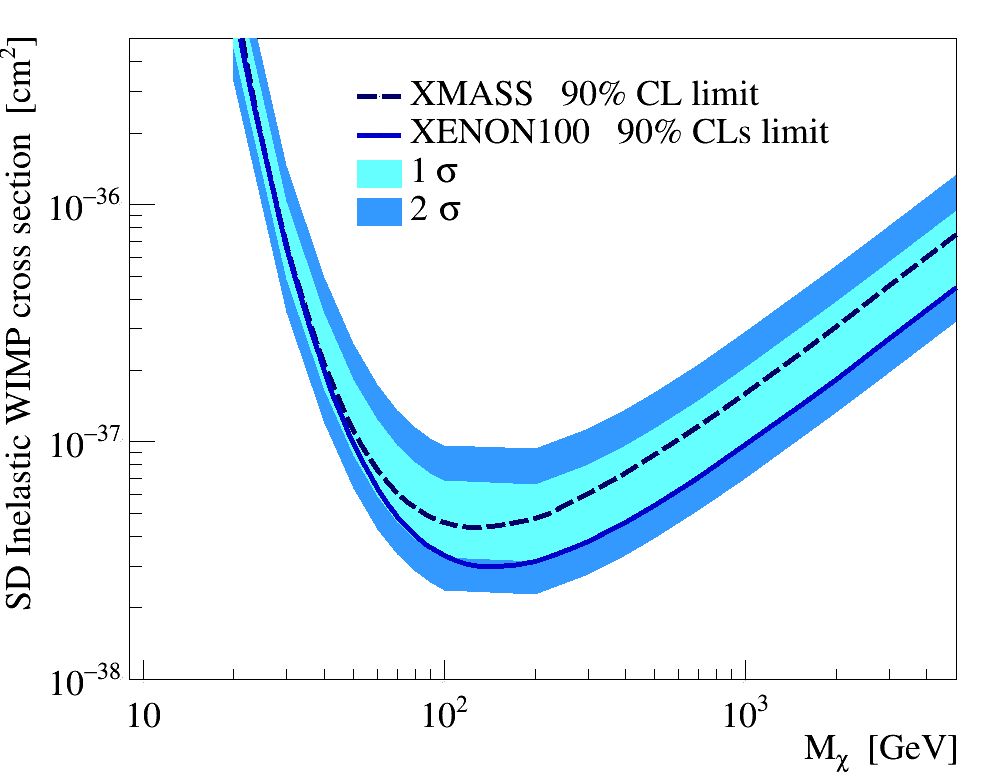
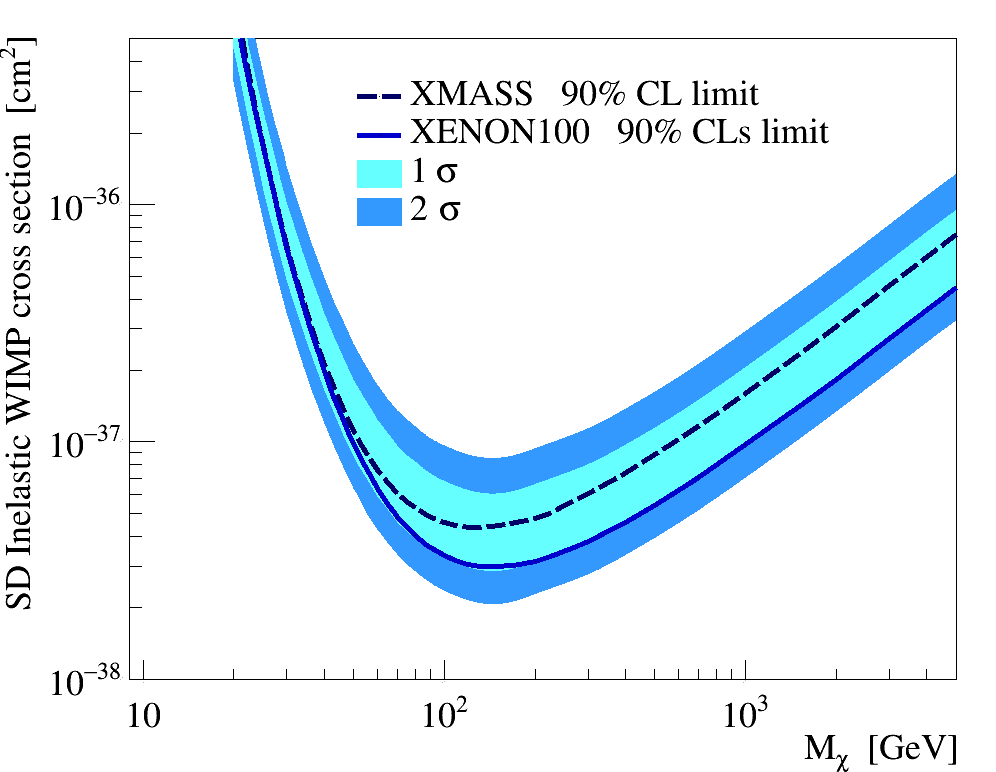
edited response and fixed figure in main text

diff --git a/Inelastic/response_to_referee.tex b/Inelastic/response_to_referee.tex
@@ -18,7 +18,7 @@
 %\section{Introduction}
 %Here is the text of your introduction.
 
-We thank the referee for his/her's valuable comments, we really think these add a value to the paper. 
+We thank the referee for the valuable comments, we sincerily think these added  value to the paper. 
 You can find below the answer to the detailed questions, we implemented most of the suggestions in the new version of the paper.
 Below we report each  comment/question in blue and its related answer in black, we specifically state what modifications
 were applied to the paper in each single answer.
@@ -50,11 +50,12 @@ dealing with inelastic scattering that produces a gamma too here.}
 Classical searches for spin dependent elastic scattering have higher sensitivity with respect to this search for spin 
 dependent inelastic scattering. However, in case dark matter would be found, this type of search ensures you that the type 
 of interaction is spin-dependent, while for classical elastic scattering is much more difficult to tell.
-In the text we say that this search is complementary to the standard SD. {\color{red} We modified the text to "It was found that this channel,  although not competitive in terms of sensitivity,  
-is complementary to the spin-dependent, elastic scattering one".} 
-The "10 KeV" of deposited energy referes to both, if one looks at integrated rated above 10KeV NR for elastic scattering 
-finds that is smaller than the integrated rate of  NR+ER for inelastic scattering.
-{\color{red} We think that deposited energy is the correct wording here, since indeed it differs for the two cases.}
+In the text we say that this search is complementary to the standard SD.  We modified the text to "It was found that this channel,  
+although not competitive in terms of sensitivity,  
+is complementary to the spin-dependent, elastic scattering one".
+The "10 KeV" of deposited energy refers to both, if one looks at integrated rated above 10KeV NR for elastic scattering 
+finds that is smaller than the integrated rate of  NR+ER for inelastic scattering, see Fig. 6 in (https://arxiv.org/abs/1309.0825).
+We think that deposited energy is the correct wording here, since indeed it differs for the two cases.
 
 \begin{itemize}
 	\item {\color{blue} 
@@ -63,11 +64,13 @@ used for this paper? Wouldn’t this make your constraints even
 stronger? Please explain reason}
 \end{itemize}
 
-Yes, the limit would be stronger. However the scope of this paper is 
-not to discover dark matter, for which one would use instead SD elastic
-scattering channel, but rather explore a different analysis channel.
+Yes, the limit could have been stronger, a naive expectation for sensitivity improvement with respect to the current is about 30\%.
+However the scope of this paper is to explore a different analysis channel.
 Doing a combination on three different science runs (each of them having 
-different background conditions and acceptances) is very demandig. 
+different background conditions and acceptances) is very demanding,
+this would have extended significantly the time scale for this analysis,
+which was not very well motivated at the time given the fact that we knew 
+Xenon1T data taking was starting soon.
 
 
 \begin{itemize}
@@ -78,7 +81,7 @@ means of the NR and ER in cS1 and cS2 space?}
 \end{itemize}
 
 The signal distribution changes according to wimp mass due to the NR component,
-we choose the ROI so that it will embrace all the wimp hipothesys at least at two 
+we choose the ROI so that it will embrace all the wimp hypothesis at least at two 
 sigma. Now added to the text.
 
 
@@ -96,7 +99,7 @@ and S2 and make squares for example?)}
 
 \begin{figure}[t!]
   \centerline{\includegraphics[width=0.7\linewidth]{inelastic_binning_check.png}}
-  \caption{ Sensitivity computed dividing the ROI in different numbers of equally sized bins. NOTE: this sensitivity curves where run in a test long ago before the final version, imost of nuissance parameter have different implementation or missing, so they are NOT directly comparable with the final one, altough similar.}
+  \caption{ Sensitivity computed dividing the ROI in different numbers of equally sized bins. NOTE: this sensitivity curves where run in a test long ago before the final version, most of nuisance parameter have different implementation or missing, so they are NOT directly comparable with the final one, although similar.}
   \label{fig:binning}
 \end{figure}
 
@@ -106,18 +109,22 @@ choice is optimal for all masses.
 
 It was shown, see Figure~\ref{fig:binning}, a non appreciable
 difference in sensitivity dividing the region in more than 10 equal sized bins. 
-So as soon as one divide the ROI in any number larger than 10 of equally sized bins would get the same result. So why not divide in 40 equally sized bins at this point?  
-There is a limiting factor: we are using asymptotic formulae for distribution of the
-test statistic, these formulaes are valid in the assumption of Wilks theorem, so that the number
-of events in each bin should be "large". In order to not have bins with drammatically low background, which
-happens in case of equally sized bins, we needed to merge bins and we need to do it in a way to not disrupt sensitivity.
-So we started with a number of equally sized bins (roughly 20 if I remember corretly) and we grouped them achieving similar 
-background density,  in this way the discrimination power is conserved, meaning that the discrimination power will be equal or better than 
-the one using the same number of final bins (in this case 9) but produced in equal sizes.
-Within this prescription, which is very general, the chosed arrangement of bins and shapes is almost arbitrary and
-could have been done in many different ways, however it doesn't matter because following 
-this procedure whatever peculiar binning choice will not  impact  our 
-sensitivity, so we choosed the solution that was technically easier.
+So as soon as one divide the ROI in any number larger than 10 of equally sized bins would get the same result. 
+%So why not divide in 40 equally sized bins at this point?  
+%There is a limiting factor: we are using asymptotic formulae for distribution of the
+%test statistic, these formulae are valid in the assumption of Wilks theorem, so that the number
+%of events in each bin should be "large". In order to not have bins with dramatically low background, which
+%happens in case of equally sized bins, we needed to merge bins and we need to do it in a way to not disrupt sensitivity.
+We choosed a rebinning strategy that depends on the background shape and is the same for all masses. The bin shapes are designed to have
+equal background density: this ensures high discrimination power while keeping a low number of bins and ensure that all bins are 
+well populated (assumption necessary for the used test statistic asymptotic formulae). 
+%So we started with a number of equally sized bins (roughly 20 if I remember correctly) and we grouped them achieving similar 
+%background density,  in this way the discrimination power is conserved, meaning that the discrimination power will be equal or better than 
+%the one using the same number of final bins (in this case 9) but produced in equal sizes.
+%Within this prescription, which is very general, the chosen arrangement of bins and shapes is almost arbitrary and
+%could have been done in many different ways, however it doesn't matter because following 
+%this procedure whatever peculiar binning choice will not  impact  our 
+%sensitivity, so we choose the solution that was technically easier.
 We added to the text that "it has been crosschecked that changing bin choice does not impact sensitivity".
 
 
@@ -131,11 +138,11 @@ or all peaks added together in a given event, counting them all as
 “the signal”?}
 \end{itemize}
 
-{\color{red} Our detector position resolution is of the order of few mm, multiple scatters S2 that are 
+Our detector position resolution is of the order of few mm, multiple scatters S2 that are 
 closer than that will be merged. These in any case are not a problem, since this cut is meant 
 to reduce neutron background, in the standard elastic analysis this turns into a small
-uncertainty in neutron bkg model, but for the energies deposits of this analysis neutron bkg 
-is irrelevant, so we could have even dropped that cut. When we say S2 we mean the primary peak. } 
+uncertainty in neutron background model, but for the energies deposits of this analysis neutron background 
+is irrelevant, so we could have even dropped that cut. When we say S2 we mean the primary peak. 
 
 \begin{itemize}
 	\item {\color{blue} 
@@ -145,7 +152,7 @@ the former as the text implies. Please correct, to better match up
 with explanation below in Section C.}
 \end{itemize}
 
-{\color{red} Changed to "a full simulation (NR and ER response) of the 39,6~KeV xenon line..." } 
+Changed to "a full simulation (NR and ER response) of the 39,6~KeV xenon line..." 
 
 \begin{itemize}
 	\item {\color{blue} 
@@ -154,8 +161,8 @@ folded in here: currently this equation appears to yield photons not
 PE (Ly?) Am I reading it incorrectly?}
 \end{itemize}
 
-Ly is the measured light yield in PE/$KeV_{ee}$, so it encapsulate all the position dependence
-and collection efficiencies, as maybe described in more detail in 
+Ly is the measured light yield in PE/$KeV_{ee}$, so it encapsulates all the position dependence
+and collection efficiencies, as described in more detail in 
 (https://arxiv.org/abs/1207.3458). This notation is common to XENON papers, but it might not be 
 general.
 
@@ -170,9 +177,7 @@ case a range should be provided, from the min to max masses you
 considered.}
 \end{itemize}
 
-What we meant is that is approximately constant with the wimp mass.
-Values being compatible within uncertainties with 0.80 +- 0.05.
-it has been changed to: "The combined acceptance  of all selection criteria in the region 
+Changed to: "The combined acceptance  of all selection criteria in the region 
 of interest is roughly constant for all masses and averages to $(0.80\pm0.05)$."
 
 
@@ -208,7 +213,7 @@ XENON100 and simulating in Geant4, yes?)}
 
 
 It has been proven by several XENON analysis that indeed 60Co and 232Th are very good
-and representative candidate for ER background, since they reproduce quite well the compton
+and representative candidate for ER background, since they reproduce quite well the Compton
 scattering band. They have been used multiple times in several xenon analysis, see for 
 example (https://arxiv.org/abs/1207.3458, and https://arxiv.org/abs/1609.06154).
 A full simulation with NEST will not give smaller uncertainties due to intrinsic
@@ -217,7 +222,7 @@ Furthermore, there is no such a proven MC-data matching for XENON100 for these e
 meaning we don't have a Geant4 of all radioactive material 
 background that produces a spectra that we can fully trust. So we opted for a simple 
 but effective approach. 
-Regarding the "dicotomy of threatment": we could't use AmBe data as signal model due to 
+Regarding the "dichotomy of treatment": we couldn't use AmBe data as signal model due to 
 the non negligible difference between WIMP and AmBe introduced by the NR.
 
 
@@ -228,7 +233,10 @@ separately as is more standard practice, either splitting them off or
 using color coded error bars, as you do later}
 \end{itemize}
 
-Done.
+Since we use a large MC sample the statistical uncertainty is negligible, the bin with largest uncertainty 
+has relative error of $<$1\%, this makes the stat uncertainty be smaller than the tickness of the line.
+So we removed the "statistical" uncertainty label as in here we want to underline the systematic uncertainties.
+
 
 \begin{itemize}
 	\item {\color{blue} Pseudo-samples: I am confused as to why these are necessary, doesn’t
@@ -264,15 +272,17 @@ discussion about the top half of the figure.}
 
 This comment touches many topics and we try to reply in order in the following:
 \begin{enumerate}
-	\item Regarding Pseudo-samples, these are used to produce shape uncertainty, so histogram variation, of +/-1 sigma step. What typically one does with these "pseudo-samples" histograms  is to use them as seeds for interpolation techniques controlled by a nuissance parameter, as the referee is suggesting. Now we have several such shape uncertainties and we felt that this approach was overcomplicated. We opted for a conservative but simple approximation: we sum up in quadrature all the "positive" and "negative" variation for each bin separately, we then assign the maximal of the two as a symmetric Gaussian distributed uncertainty on the single bin.  In this way we avoid the complication of histogram shape interpolation of several nuissance parameter. Being the uncertainty on each bin independent from the other this allows for much more freedom and has overcoverage of the shape variations.
+	\item Regarding Pseudo-samples, these are used to produce shape uncertainty, so histogram variation, of +/-1 sigma step. What typically one does with these "pseudo-samples" histograms  is to use them as seeds for interpolation techniques controlled by a nuisance parameter, as the referee is suggesting. Now we have several such shape uncertainties and we felt that this approach was over complicated. We opted for a conservative but simple approximation: we sum up in quadrature all the "positive" and "negative" variation for each bin separately, we then assign the maximal of the two as a symmetric Gaussian distributed uncertainty on the single bin.  In this way we avoid the complication of histogram shape interpolation of several nuisance parameter. Being the uncertainty on each bin independent from the other this allows for much more freedom and has over coverage of the shape variations.
 	
 	\item The question on the regions is already answered above. 
 	
-	\item The analysis was not technically blind, since this data region was explored in several 
-other studies. The procedure we used was as if it was blind, since we didn't tune cuts on data.
+	\item Since this data region was explored in several other studies, this analysis was not blind.
+		The procedure we used was as if it was blind, since we didn't tune cuts on data.
 
-	\item All the systematic uncertainties come from auxiliary measurements, so real measurements either from our experiment or in the literature, some of them may not be expected to be gaussian distributed,
-for example Leff, but in these cases the parametrizzation chosen is the one commonly accepted.
+	\item All the systematic uncertainties come from auxiliary measurements, either from our experiment or from the literature, so 
+		to the best of our knowledge their prior is indeed a Gaussian. 
+		However, some of them may not be expected to be Gaussianly distributed, for example Leff, but in these cases the chosen parameterization
+		is the one commonly accepted.
 
 	\item The sentences Figure 4 have been swapped.
 \end{enumerate}
@@ -288,12 +298,8 @@ CL(s), or at least a brief reason why it was used instead of CL. Not
 all readers may be familiar with Read’s work.}
 \end{itemize}
 
-The CLs was common practice of XENON100, and common practice of many high energy experimets. 
-This is a technique that target the same problem as power constrain (but in a less silly way),
-it protects the limit by data underfluctiation so that is difficult to exclude
-cross section to which the experiment is not sensitive to, paying the price of a bit worst sensitivity.
-The sentence {\color{red}"The CL$_s$ technique helps protecting against exclusion of a cross section
-smaller than experimental sensitivity" has been added}. Not really sure I wan to add that. 
+The sentence "The CL$_s$ technique helps protecting against exclusion 
+of a cross section smaller than experimental sensitivity" has been added.  
 
 
 
@@ -318,10 +324,11 @@ here, as being in nearly virgin territory, and you can say that.}
 \end{itemize}
 
 No the limit is not constrained, CLs is used instead of a power constrained limit.
-It just a coincidence that it stops at -1 sigma.
-Yes the bands are not smoothened while the curve is, this is due to a silly ROOT 
-problem which is {\color{red} fixed now} in another way.
-There is no other result that we know of that explores exactly this process.
+It is just a coincidence that it stops at -1 sigma.
+Yes the bands are not smoothened while the curve is, this is due to a ROOT 
+problem (smoothening of a filled area does not work well in ROOT) which we  
+fixed now. There is no other result that we know of that explores 
+exactly this process.
 
 
 

diff --git a/Inelastic/analysis.tex b/Inelastic/analysis.tex
@@ -152,7 +152,7 @@ data from the $^{232}$Th calibration campaign, and systematic uncertainties asse
 
 \begin{figure}[t!]
   \includegraphics[width=\linewidth]{wimp_sys_unc.png}
-  \caption{Predicted signal yield in each sub-region (blue curve), along with statistical and systematic uncertainties (shaded area) simulated for a WIMP mass of 100\,GeV/c$^2$.  The signal has been scaled for a total number of 50 events. The sub-regions are defined in Figure~\ref{fig:SR}.}
+  \caption{Predicted signal yield in each sub-region (blue curve), along with systematic uncertainties (shaded area) simulated for a WIMP mass of 100\,GeV/c$^2$.  The signal has been scaled for a total number of 50 events. The sub-regions are defined in Figure~\ref{fig:SR}.}
   \label{fig:unc}
 \end{figure}
 
